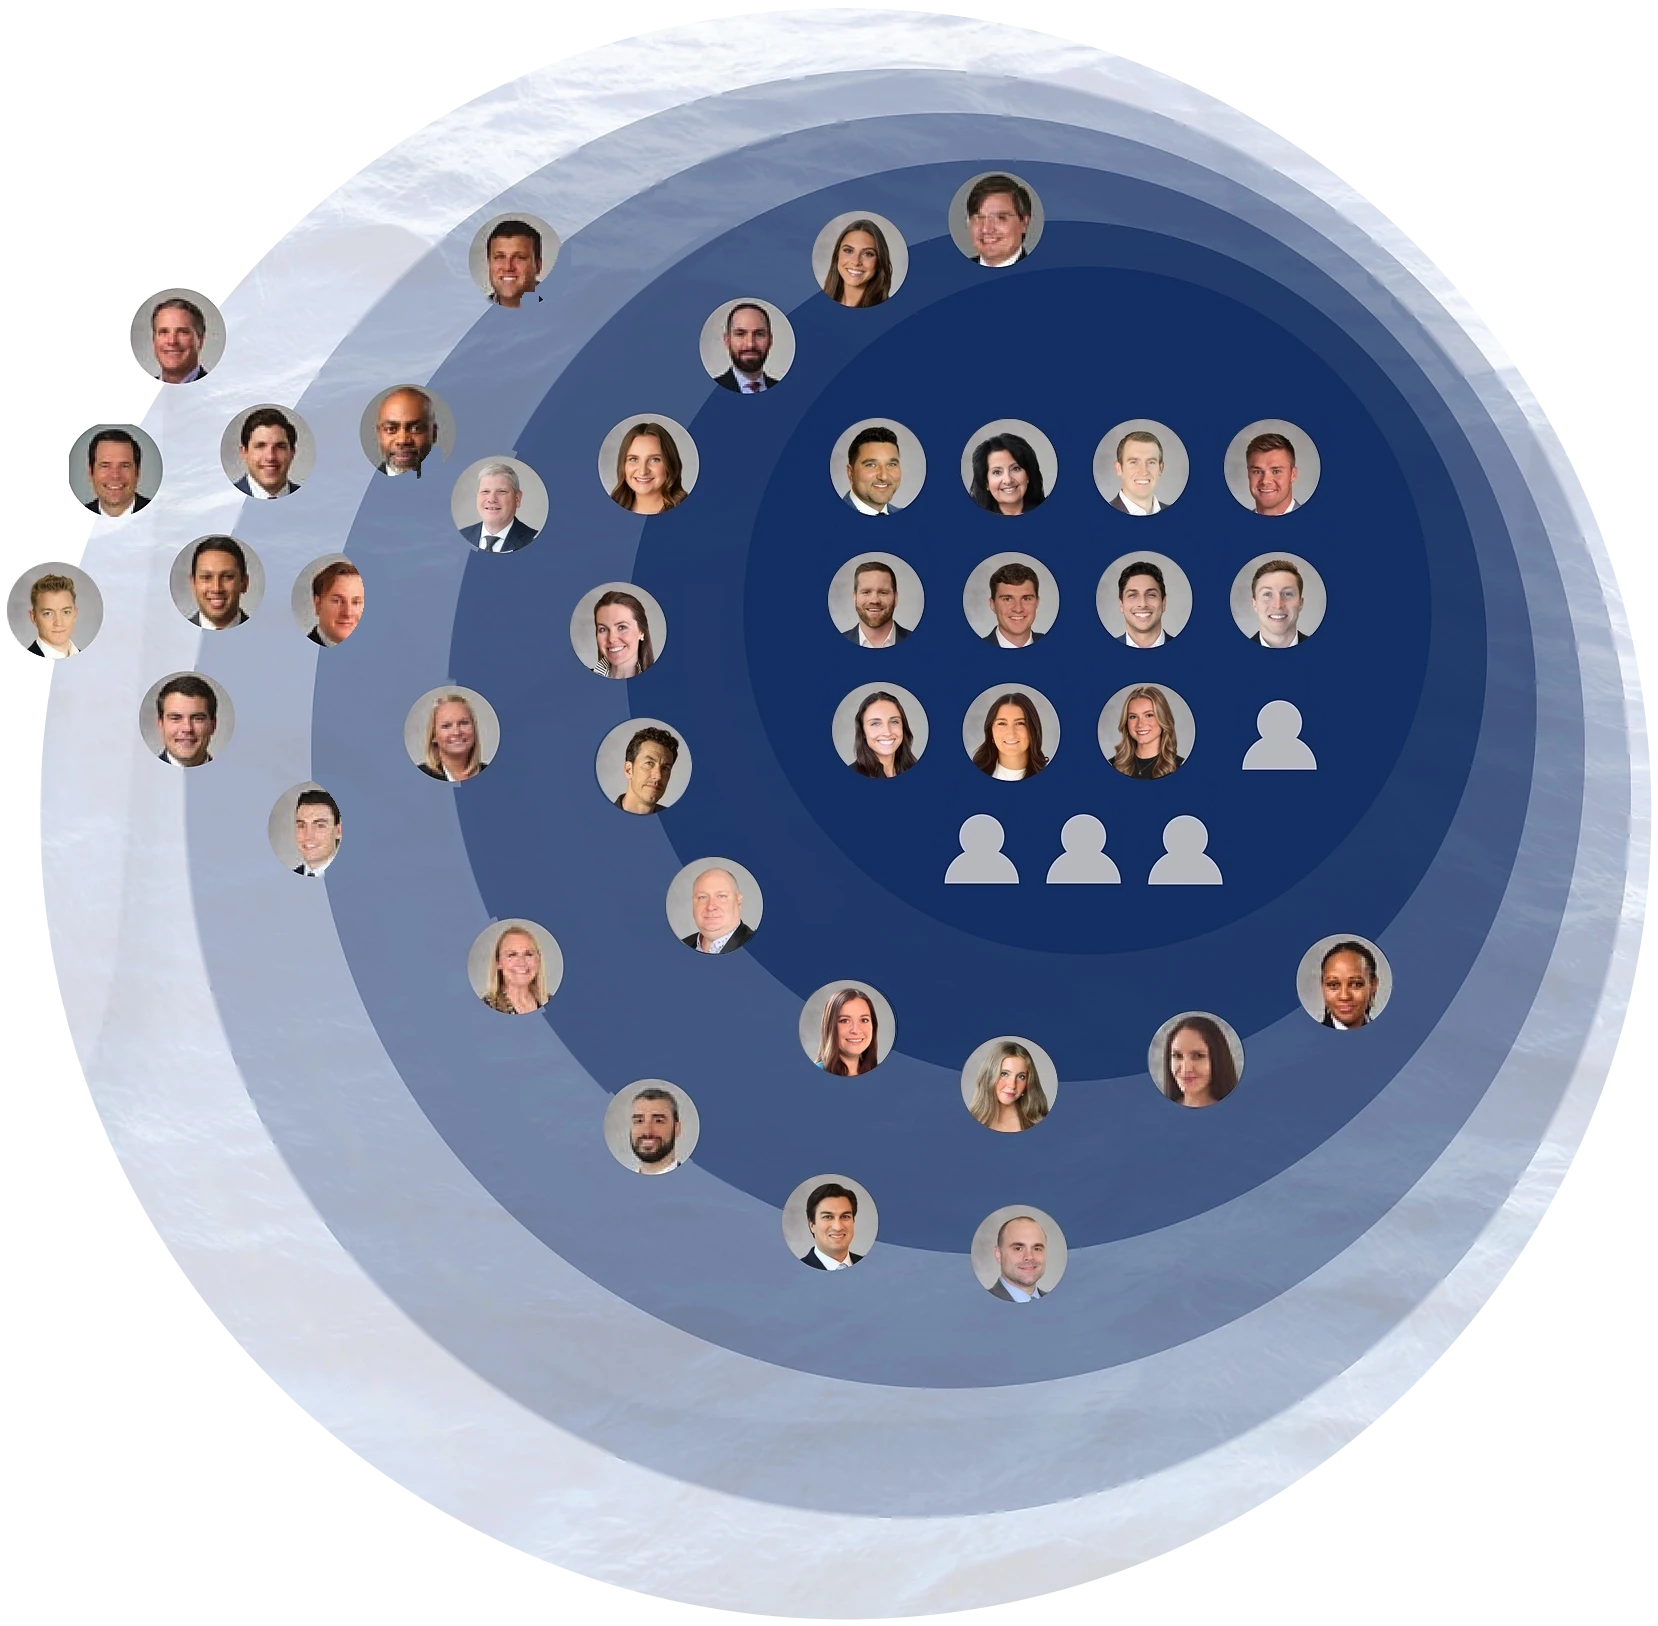
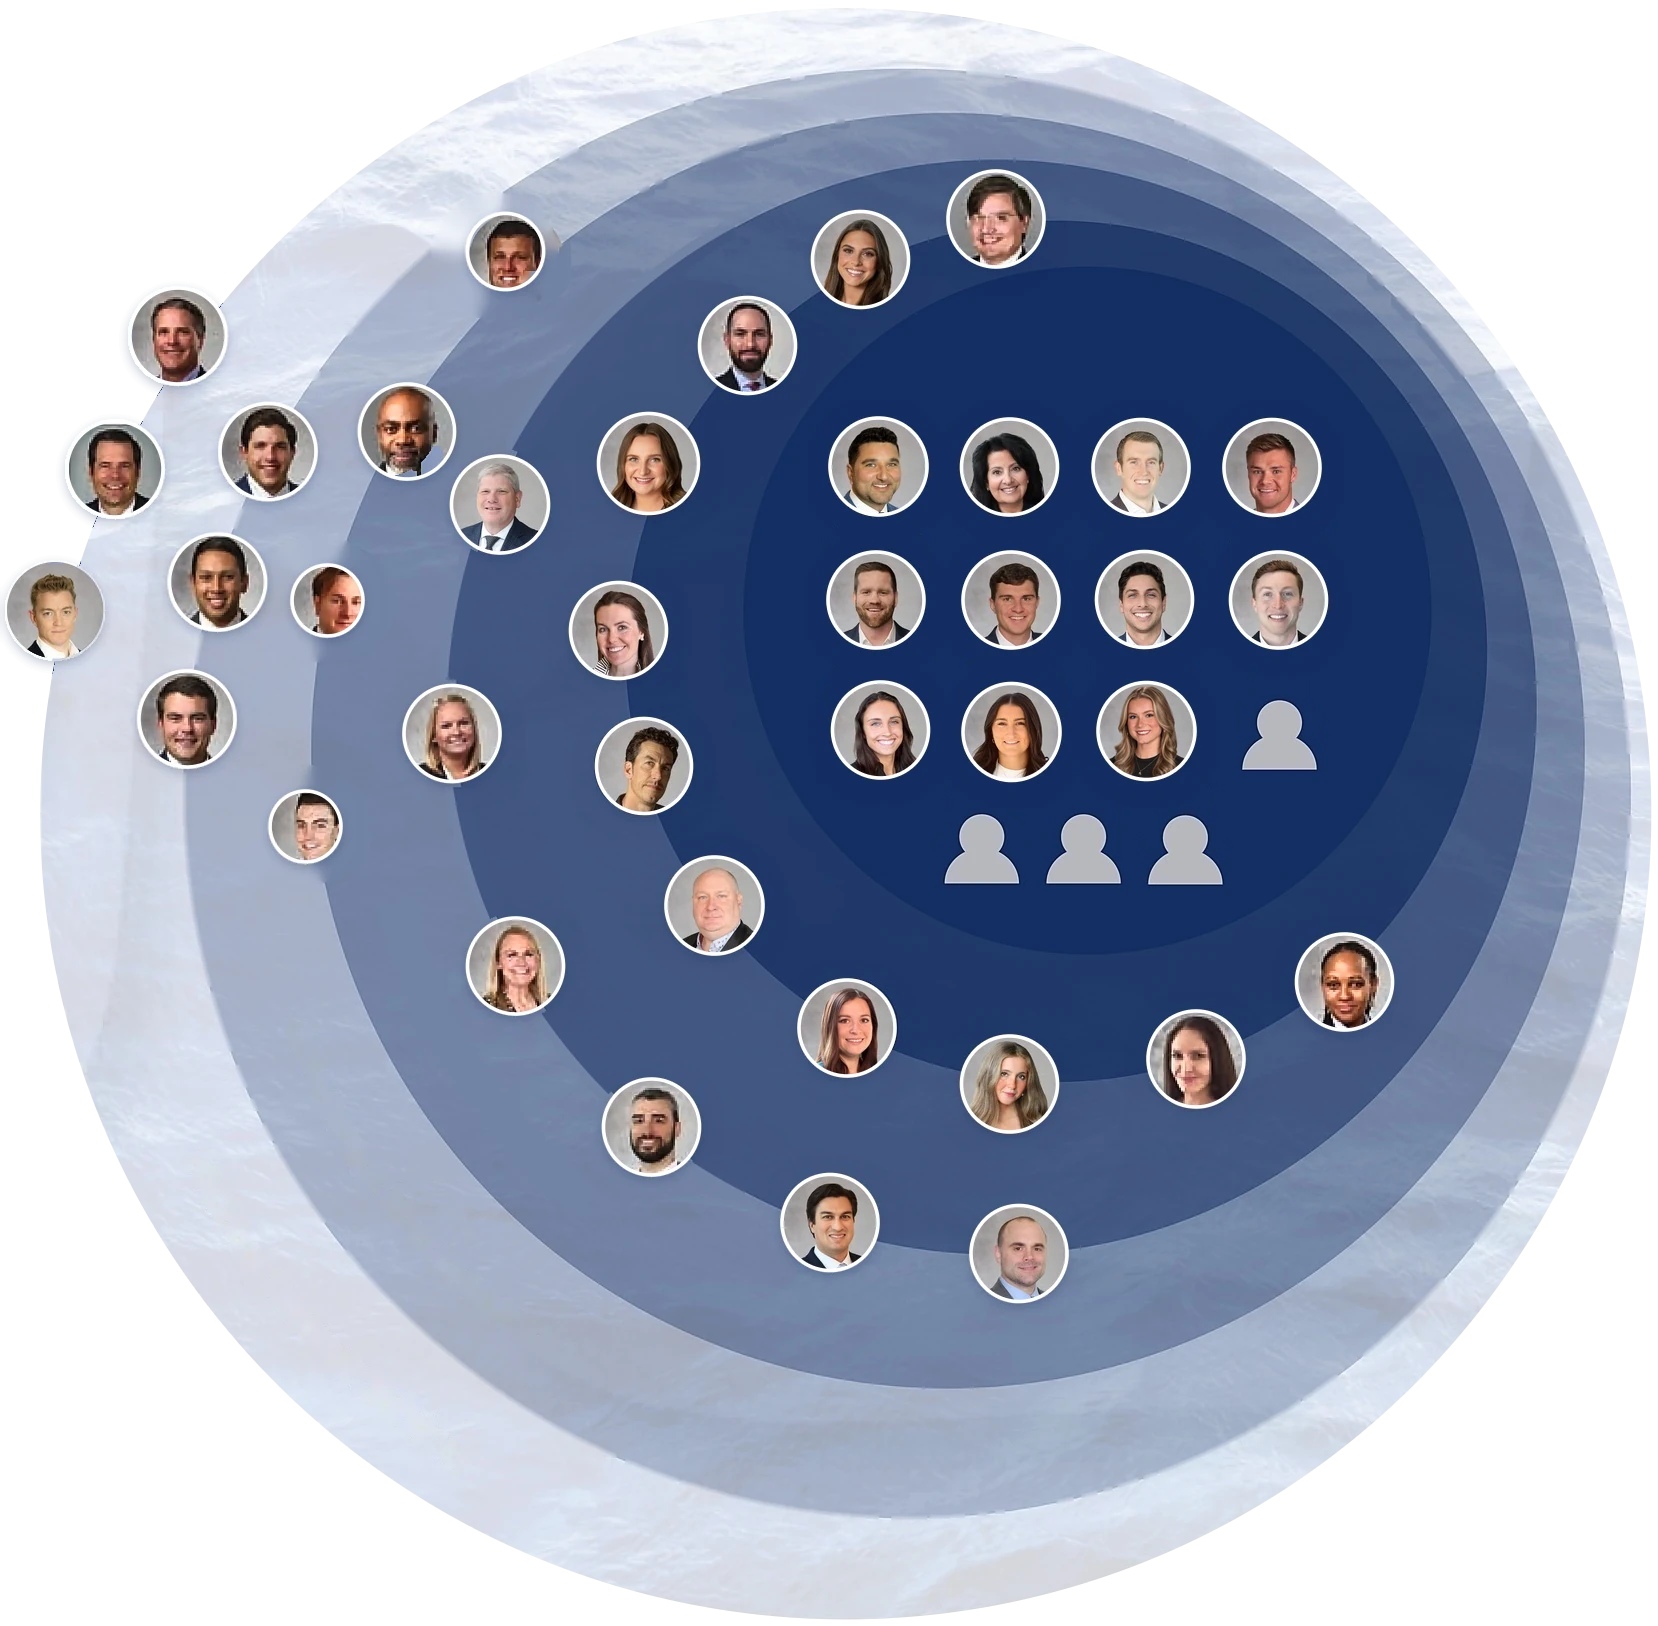
Polish the Strength in Numbers faces
Sharpen and clean up the remaining soft circle faces, tidy three faces
that were clipped in the source artwork, and give every face (circle and
timeline) a thin white rim and soft shadow.

Claude-Session: https://claude.ai/code/session_013rjN9eXsQUGtogBW2y87jx

diff --git a/index.html b/index.html
@@ -9,7 +9,7 @@
   <link rel="preconnect" href="https://fonts.gstatic.com" crossorigin>
   <link href="https://fonts.googleapis.com/css2?family=Nunito+Sans:ital,opsz,wght@0,6..12,200;0,6..12,300;0,6..12,400;0,6..12,600;0,6..12,700;0,6..12,800;1,6..12,200;1,6..12,300;1,6..12,400&display=swap" rel="stylesheet">
   <!-- Bump ?v= on deck.css and deck.js with each update so browsers fetch the new files -->
-  <link rel="stylesheet" href="deck.css?v=2026-11-03.8">
+  <link rel="stylesheet" href="deck.css?v=2026-11-03.9">
 </head>
 <body>
   <!-- Deck chrome: menu, slide counter, dot nav, progress -->
@@ -142,7 +142,7 @@
         </div>
         <!-- Ring labels are live text (SVG) over the photo circle so they stay sharp; paths follow each ring -->
         <figure class="numbers__org">
-          <img src="img/org-circle.webp?v=2" alt="Stream Chicago platform: Industrial Brokerage, Research &amp; Marketing, Property &amp; Construction Management, Development Services, Investment Management and National Investor Services" width="1658" height="1626" loading="lazy">
+          <img src="img/org-circle.webp?v=4" alt="Stream Chicago platform: Industrial Brokerage, Research &amp; Marketing, Property &amp; Construction Management, Development Services, Investment Management and National Investor Services" width="1658" height="1626" loading="lazy">
           <svg class="org__labels" viewBox="0 0 1658 1626" aria-hidden="true">
             <defs>
               <path id="ring-1" d="M1337.3 908.6 L1338.6 907.4 L1339.8 906.2 L1341.0 905.0 L1342.2 903.8 L1343.4 902.6 L1344.6 901.4 L1345.8 900.2 L1347.0 899.0 L1348.2 897.8 L1349.4 896.6 L1350.5 895.3 L1351.7 894.1 L1352.9 892.8 L1354.0 891.6 L1355.2 890.4 L1356.3 889.1 L1357.4 887.8 L1358.6 886.6 L1359.7 885.3 L1360.8 884.0 L1361.9 882.8 L1363.0 881.5 L1364.1 880.2 L1365.2 878.9 L1366.3 877.6 L1367.4 876.3 L1368.5 875.0 L1369.6 873.7 L1370.6 872.4 L1371.7 871.1 L1372.7 869.7 L1373.8 868.4 L1374.8 867.1 L1375.9 865.8 L1376.9 864.4 L1377.9 863.1 L1378.9 861.7 L1379.9 860.4 L1380.9 859.0 L1381.9 857.7 L1382.9 856.3 L1383.9 855.0 L1384.9 853.6 L1385.9 852.2 L1386.8 850.8 L1387.8 849.5 L1388.7 848.1 L1389.7 846.7 L1390.6 845.3 L1391.6 843.9 L1392.5 842.5 L1393.4 841.1 L1394.3 839.7 L1395.2 838.3 L1396.1 836.9 L1397.0 835.4 L1397.9 834.0 L1398.8 832.6 L1399.7 831.2 L1400.6 829.7 L1401.4 828.3 L1402.3 826.9 L1403.1 825.4 L1404.0 824.0 L1404.8 822.5 L1405.6 821.1 L1406.5 819.6 L1407.3 818.2 L1408.1 816.7 L1408.9 815.3 L1409.7 813.8 L1410.5 812.3 L1411.3 810.9 L1412.1 809.4 L1412.8 807.9 L1413.6 806.4 L1414.4 804.9 L1415.1 803.5 L1415.9 802.0 L1416.6 800.5 L1417.3 799.0 L1418.0 797.5 L1418.8 796.0 L1419.5 794.5 L1420.2 793.0 L1420.9 791.5 L1421.6 790.0 L1422.3 788.4 L1422.9 786.9 L1423.6 785.4 L1424.3 783.9 L1424.9 782.4 L1425.6 780.8 L1426.2 779.3 L1426.9 777.8 L1427.5 776.3 L1428.1 774.7 L1428.8 773.2 L1429.4 771.6 L1430.0 770.1 L1430.6 768.6 L1431.2 767.0 L1431.7 765.5 L1432.3 763.9 L1432.9 762.4 L1433.5 760.8 L1434.0 759.3 L1434.6 757.7 L1435.1 756.1 L1435.6 754.6 L1436.2 753.0 L1436.7 751.5 L1437.2 749.9 L1437.7 748.3 L1438.2 746.8 L1438.7 745.2 L1439.2 743.6 L1439.7 742.0 L1440.2 740.5 L1440.6 738.9 L1441.1 737.3 L1441.6 735.7 L1442.0 734.1 L1442.4 732.6 L1442.9 731.0 L1443.3 729.4 L1443.7 727.8 L1444.1 726.2 L1444.6 724.6 L1445.0 723.0 L1445.3 721.4 L1445.7 719.8 L1446.1 718.2 L1446.5 716.6 L1446.8 715.0 L1447.2 713.4 L1447.6 711.8 L1447.9 710.2 L1448.2 708.6 L1448.6 707.0 L1448.9 705.4 L1449.2 703.8 L1449.5 702.2 L1449.8 700.6 L1450.1 699.0 L1450.4 697.4 L1450.7 695.8 L1451.0 694.2 L1451.2 692.6 L1451.5 691.0 L1451.8 689.3 L1452.0 687.7 L1452.2 686.1 L1452.5 684.5 L1452.7 682.9 L1452.9 681.3 L1453.1 679.7 L1453.4 678.0 L1453.6 676.4 L1453.7 674.8 L1453.9 673.2 L1454.1 671.6 L1454.3 670.0 L1454.5 668.3 L1454.6 666.7 L1454.8 665.1 L1454.9 663.5 L1455.0 661.9 L1455.2 660.3 L1455.3 658.6 L1455.4 657.0 L1455.5 655.4 L1455.6 653.8 L1455.7 652.2 L1455.8 650.5 L1455.9 648.9 L1456.0 647.3 L1456.1 645.7 L1456.1 644.1 L1456.2 642.4 L1456.2 640.8 L1456.3 639.2 L1456.3 637.6 L1456.3 636.0 L1456.4 634.3 L1456.4 632.7 L1456.4 631.1 L1456.4 629.5 L1456.4 627.9 L1456.4 626.3 L1456.3 624.6 L1456.3 623.0 L1456.3 621.4 L1456.2 619.8 L1456.2 618.2 L1456.2 616.6 L1456.1 615.0 L1456.0 613.4 L1456.0 611.7 L1455.9 610.1 L1455.8 608.5 L1455.7 606.9 L1455.6 605.3 L1455.5 603.7 L1455.4 602.1 L1455.3 600.5 L1455.1 598.9 L1455.0 597.3 L1454.9 595.7 L1454.7 594.1 L1454.6 592.5 L1454.4 590.9 L1454.2 589.3 L1454.1 587.7 L1453.9 586.1 L1453.7 584.5 L1453.5 582.9 L1453.3 581.3 L1453.1 579.7 L1452.9 578.1 L1452.7 576.5 L1452.5 574.9 L1452.2 573.3 L1452.0 571.8 L1451.7 570.2 L1451.5 568.6 L1451.2 567.0 L1451.0 565.4 L1450.7 563.9 L1450.4 562.3 L1450.1 560.7 L1449.8 559.1 L1449.5 557.6 L1449.2 556.0 L1448.9 554.4 L1448.6 552.8 L1448.3 551.3 L1448.0 549.7 L1447.6 548.2 L1447.3 546.6 L1446.9 545.0 L1446.6 543.5 L1446.2 541.9 L1445.9 540.4 L1445.5 538.8 L1445.1 537.3 L1444.7 535.7 L1444.3 534.2 L1443.9 532.6 L1443.5 531.1 L1443.1 529.5 L1442.7 528.0 L1442.3 526.5 L1441.8 524.9 L1441.4 523.4 L1440.9 521.9 L1440.5 520.3 L1440.0 518.8 L1439.6 517.3 L1439.1 515.8 L1438.6 514.2 L1438.2 512.7 L1437.7 511.2 L1437.2 509.7 L1436.7 508.2 L1436.2 506.7 L1435.7 505.2 L1435.1 503.7 L1434.6 502.2 L1434.1 500.7 L1433.5 499.2 L1433.0 497.7 L1432.5 496.2 L1431.9 494.7 L1431.3 493.2 L1430.8 491.7 L1430.2 490.3 L1429.6 488.8 L1429.0 487.3 L1428.5 485.8 L1427.9 484.4 L1427.3 482.9 L1426.6 481.4 L1426.0 480.0 L1425.4 478.5 L1424.8 477.0 L1424.2 475.6 L1423.5 474.1"/>
@@ -510,6 +510,6 @@
   </div>
   <div class="toast" id="toast" role="status" hidden></div>
 
-  <script src="deck.js?v=2026-11-03.8"></script>
+  <script src="deck.js?v=2026-11-03.9"></script>
 </body>
 </html>

diff --git a/deck.css b/deck.css
@@ -240,8 +240,8 @@ p, li, figcaption, td { text-wrap: pretty; }
 .timeline__count strong { font-size: clamp(1.8rem, calc(2.6 * var(--vw)), 2.7rem); color: var(--accent); font-weight: 300; letter-spacing: 0; }
 .faces { display: grid; grid-template-columns: repeat(4, 1fr); gap: clamp(12px, calc(2 * var(--vh)), 20px) 6px; margin-top: 18px; }
 .faces li { display: flex; flex-direction: column; align-items: center; gap: 8px; text-align: center; font-size: clamp(.8rem, calc(.92 * var(--vw)), .98rem); letter-spacing: 0; white-space: nowrap; color: var(--ink); }
-.faces img { width: clamp(44px, min(calc(4.6 * var(--vw)), calc(8 * var(--vh))), 88px); aspect-ratio: 1; border-radius: 50%; object-fit: cover; transform: scale(1); transition: transform .25s var(--ease), box-shadow .25s; box-shadow: 0 0 0 0 var(--accent); }
-.faces li:hover img { transform: scale(1.12); box-shadow: 0 0 0 3px var(--accent); }
+.faces img { width: clamp(44px, min(calc(4.6 * var(--vw)), calc(8 * var(--vh))), 88px); aspect-ratio: 1; border-radius: 50%; object-fit: cover; transform: scale(1); transition: transform .25s var(--ease), box-shadow .25s; box-shadow: 0 0 0 3px #fff, 0 10px 20px -8px rgba(15,31,71,.55); }
+.faces li:hover img { transform: scale(1.08); box-shadow: 0 0 0 3px var(--accent), 0 12px 24px -8px rgba(15,31,71,.6); }
 .numbers__org { position: relative; margin: 0; width: 100%; }
 .numbers__org img { width: 100%; height: auto; }
 @media (min-width: 861px) { .numbers__org { left: 100px; } }   /* nudge the circle into the right margin */
